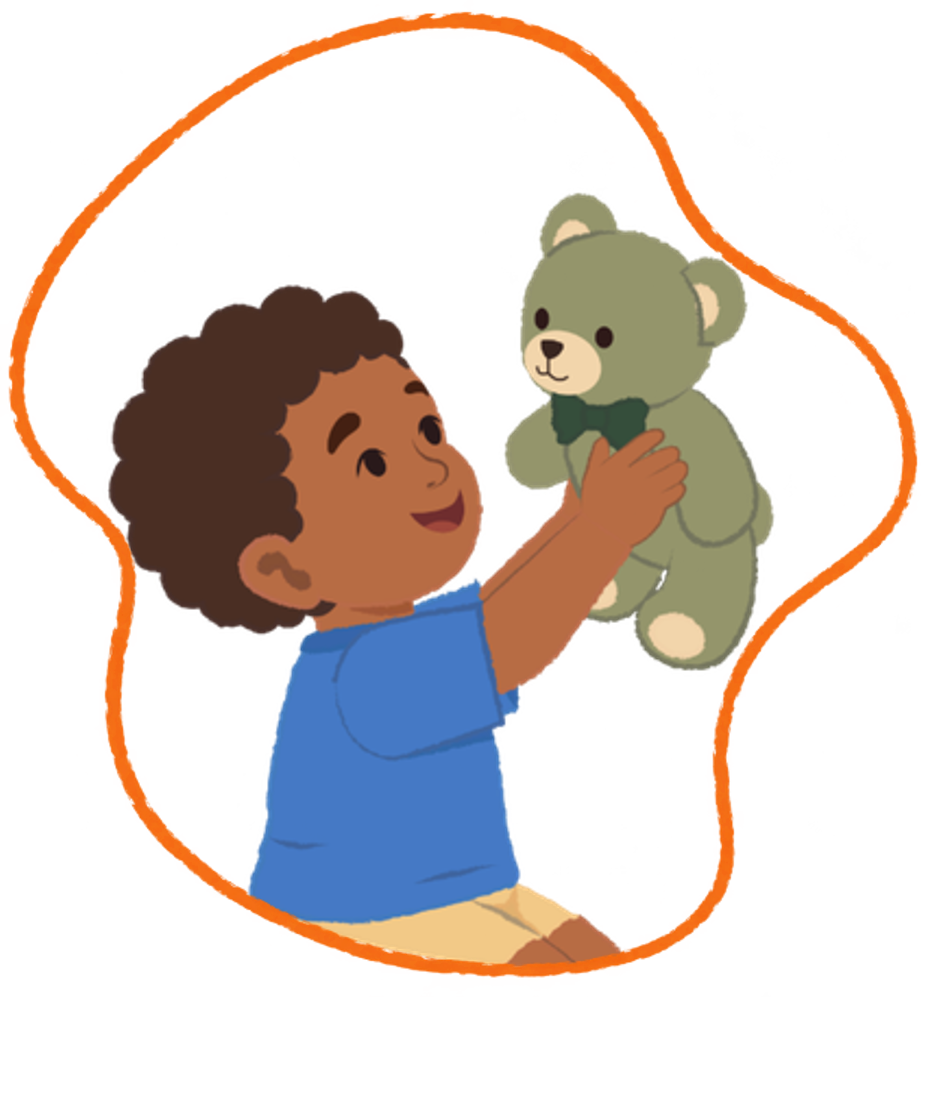
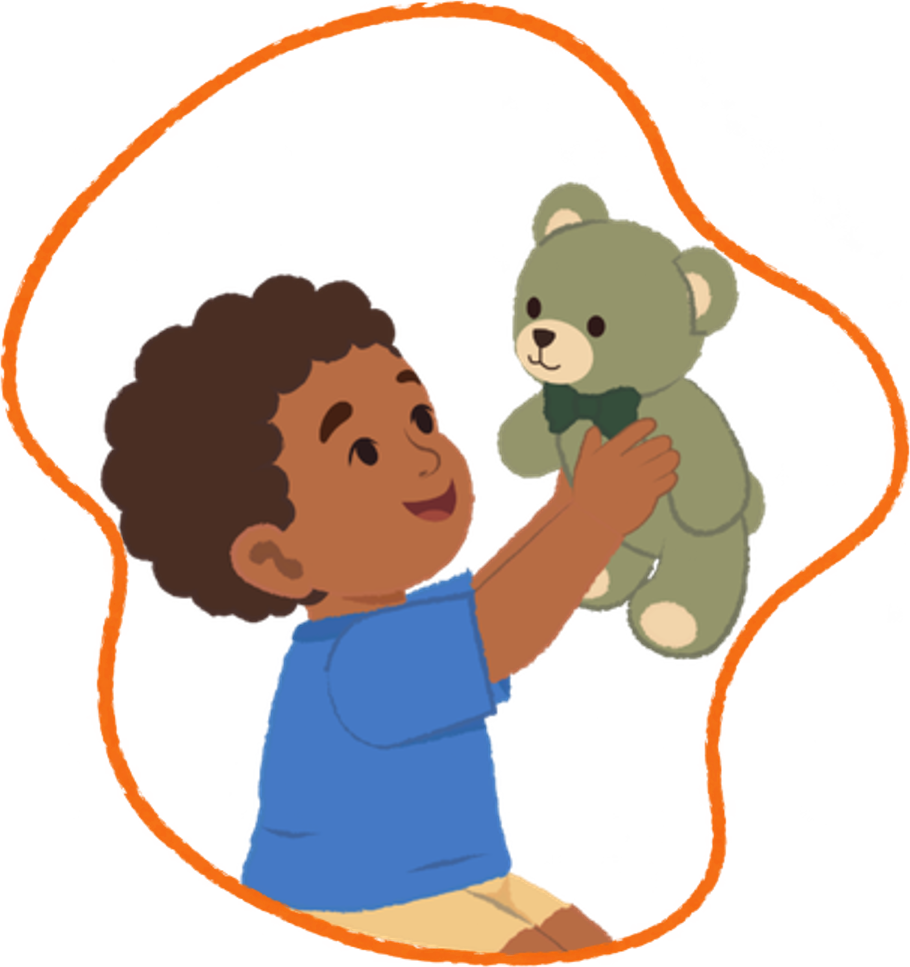
Refactor code structure for improved readability and maintainability

diff --git a/src/pages/Home.jsx b/src/pages/Home.jsx
@@ -6,13 +6,13 @@ const sections = ['Design and Planning', 'Conduct and Operations', 'Analysis and
 // Desktop sizes are in vw so the page scales exactly like the design
 export default function Home() {
   return (
-    <section className="grid items-start gap-10 px-6 pt-6 lg:grid-cols-[1fr_33vw] lg:gap-[2vw] lg:pl-[7.4vw] lg:pr-[3vw] lg:pt-[2.2vw]">
+    <section className="grid items-start gap-10 px-6 pt-6 lg:grid-cols-[1fr_auto] lg:gap-[2vw] lg:pl-[7.4vw] lg:pr-[4vw] lg:pt-[min(1.8vw,3vh)]">
       <div>
-        <h1 className="font-[Arial,Helvetica,sans-serif] text-[clamp(2rem,3.4vw,5rem)] font-bold leading-tight">
+        <h1 className="font-[Arial,Helvetica,sans-serif] text-[clamp(1.75rem,min(3vw,5.4vh),4.5rem)] font-bold leading-tight">
           ASH Iron deficiency algorithm
         </h1>
 
-        <div className="mt-[2.4vw] text-[clamp(1rem,1.4vw,2rem)] leading-snug">
+        <div className="mt-[min(2vw,3.5vh)] text-[clamp(0.95rem,min(1.2vw,2.2vh),1.75rem)] leading-snug">
           <p className="max-w-[21em]">This scrollable map is split into 3 sections:</p>
           <ul className="ml-[1.3em] list-disc">
             {sections.map((s) => (
@@ -26,12 +26,12 @@ export default function Home() {
 
         <Link
           to="/algorithm"
-          className="mt-[1.8vw] inline-flex h-[clamp(2.75rem,3.5vw,5rem)] w-[clamp(9rem,11.5vw,16rem)] items-center justify-center rounded-full bg-navy text-[clamp(1.1rem,1.4vw,2rem)] font-semibold text-white hover:opacity-90"
+          className="mt-[min(1.6vw,2.8vh)] inline-flex h-[clamp(2.5rem,min(3vw,5.4vh),4.5rem)] w-[clamp(8rem,min(10vw,18vh),14rem)] items-center justify-center rounded-full bg-navy text-[clamp(1rem,min(1.2vw,2.2vh),1.75rem)] font-semibold text-white hover:opacity-90"
         >
           Enter
         </Link>
 
-        <div className="mt-[3.2vw] max-w-[56em] space-y-[1.4em] text-[clamp(0.85rem,1vw,1.4rem)]">
+        <div className="mt-[min(2.6vw,4.5vh)] max-w-[56em] space-y-[1.2em] text-[clamp(0.8rem,min(0.9vw,1.6vh),1.25rem)]">
           <p>
             This map was created by ASH with funding support from The ASH Health Impact Collective, Genentech, Kite,
             J&amp;J Innovative Medicine and AbbVie. Together we are committed to ensuring access to life-saving clinical
@@ -42,7 +42,7 @@ export default function Home() {
       </div>
 
       {/* Ring + 3 people in one image, in a fixed box measured from the design */}
-      <div className="mx-auto aspect-[660/680] w-full max-w-md lg:mt-[2vw] lg:max-w-none">
+      <div className="mx-auto aspect-[660/680] w-full max-w-md lg:mt-[min(2vw,3.5vh)] lg:h-[min(31vw,60vh)] lg:w-auto lg:max-w-none">
         <img src={images.doctors} alt="Three clinicians" className="h-full w-full object-contain" />
       </div>
     </section>

diff --git a/src/components/Layout.jsx b/src/components/Layout.jsx
@@ -2,35 +2,24 @@ import { Outlet } from 'react-router-dom'
 import Navbar from './Navbar'
 import { images } from '../data/images'
 
-// Every decoration gets a fixed box (in vw, measured from the design) and the image
-// is stretched into it, so the layout doesn't depend on the exported image size
+// Each decoration (orange shape + blue line) gets a fixed box (in vw, measured from the design)
+// and the image is stretched into it, so the layout doesn't depend on the exported image size
 export default function Layout() {
   return (
     <div className="relative flex min-h-screen flex-col overflow-hidden">
       <img
-        src={images.topRightShape}
+        src={images.topDecoration}
         alt=""
         className="pointer-events-none absolute right-0 top-0 h-[max(9.6vw,52px)] w-[max(58vw,300px)] object-fill"
       />
       <img
-        src={images.topRightLine}
+        src={images.bottomDecoration}
         alt=""
-        onError={(e) => (e.currentTarget.style.display = 'none')}
-        className="pointer-events-none absolute right-0 top-0 h-[max(8.8vw,48px)] w-[max(58vw,300px)] object-fill"
-      />
-      <img
-        src={images.bottomLeftShape}
-        alt=""
-        className="pointer-events-none absolute bottom-0 left-0 h-[6.6vw] w-[29.5vw] object-fill"
-      />
-      <img
-        src={images.bottomLine}
-        alt=""
-        className="pointer-events-none absolute bottom-[0.3vw] left-0 h-[6.5vw] w-[99.5vw] object-fill"
+        className="pointer-events-none absolute bottom-0 left-0 h-[6.9vw] w-full object-fill"
       />
 
       <Navbar />
-      <main className="relative z-10 flex-1 pb-[9vw]">
+      <main className="relative z-10 flex-1 pb-[7.5vw]">
         <Outlet />
       </main>
     </div>

diff --git a/src/components/CharacterCard.jsx b/src/components/CharacterCard.jsx
@@ -17,7 +17,7 @@ export default function CharacterCard({ character, status = 'idle', offset = 0, 
       to={`/algorithm/${character.id}`}
       onClick={(e) => onSelect?.(e, character.id)}
       style={style}
-      className={`group relative flex w-40 flex-col items-center text-center transition-[transform,opacity] ease-soft will-change-transform sm:w-44 lg:w-[13.7vw] ${
+      className={`group relative flex w-40 flex-col items-center text-center transition-[transform,opacity] ease-soft will-change-transform sm:w-44 lg:w-[min(12.5vw,25vh)] ${
         selected ? 'z-10 duration-[850ms]' : ''
       } ${hidden ? 'pointer-events-none opacity-0 duration-[550ms]' : ''}`}
     >
@@ -34,7 +34,7 @@ export default function CharacterCard({ character, status = 'idle', offset = 0, 
       </div>
 
       <p
-        className={`mt-[clamp(0.75rem,1.6vw,2rem)] text-[clamp(1rem,1.3vw,1.8rem)] font-bold leading-snug transition-opacity duration-500 ease-soft ${
+        className={`mt-[clamp(0.5rem,min(1.3vw,2.4vh),1.75rem)] text-[clamp(0.95rem,min(1.15vw,2.1vh),1.6rem)] font-bold leading-snug transition-opacity duration-500 ease-soft ${
           selected ? 'opacity-0 delay-[600ms]' : ''
         }`}
       >

diff --git a/src/pages/Algorithm.jsx b/src/pages/Algorithm.jsx
@@ -30,14 +30,14 @@ export default function Algorithm() {
   const statusOf = (id) => (!selected ? 'idle' : selected.id === id ? 'selected' : 'hidden')
 
   return (
-    <section className="animate-page-in px-6 pt-[clamp(1.5rem,5vw,6rem)] text-center">
+    <section className="animate-page-in px-6 pt-[clamp(1.5rem,min(4vw,7vh),5rem)] text-center">
       <p
-        className={`text-[clamp(1rem,1.4vw,2rem)] transition-[opacity,transform] duration-500 ease-soft ${selected ? '-translate-y-2 opacity-0' : ''}`}
+        className={`text-[clamp(0.95rem,min(1.25vw,2.3vh),1.75rem)] transition-[opacity,transform] duration-500 ease-soft ${selected ? '-translate-y-2 opacity-0' : ''}`}
       >
         Select each character to navigate to that section.
       </p>
 
-      <div className="mt-[clamp(2rem,3.8vw,5rem)] flex flex-wrap items-start justify-center gap-x-[3.5vw] gap-y-10">
+      <div className="mt-[clamp(1.5rem,min(3vw,5.5vh),4rem)] flex flex-wrap items-start justify-center gap-x-[3.5vw] gap-y-10">
         {characters.map((c, i) => (
           <CharacterCard
             key={c.id}

diff --git a/src/data/images.js b/src/data/images.js
@@ -2,9 +2,7 @@
 export const images = {
   logo: '/images/ash-logo.png',
   idAlgorithmLogo: '/images/id-algorithm-logo.png',
-  topRightShape: '/images/top-right-shape.png',
-  topRightLine: '/images/top-right-line.png',
-  bottomLeftShape: '/images/bottom-left-shape.png',
-  bottomLine: '/images/bottom-line.png',
+  topDecoration: '/images/top-decoration.png',
+  bottomDecoration: '/images/bottom-decoration.png',
   doctors: '/images/doctors.png',
 }
